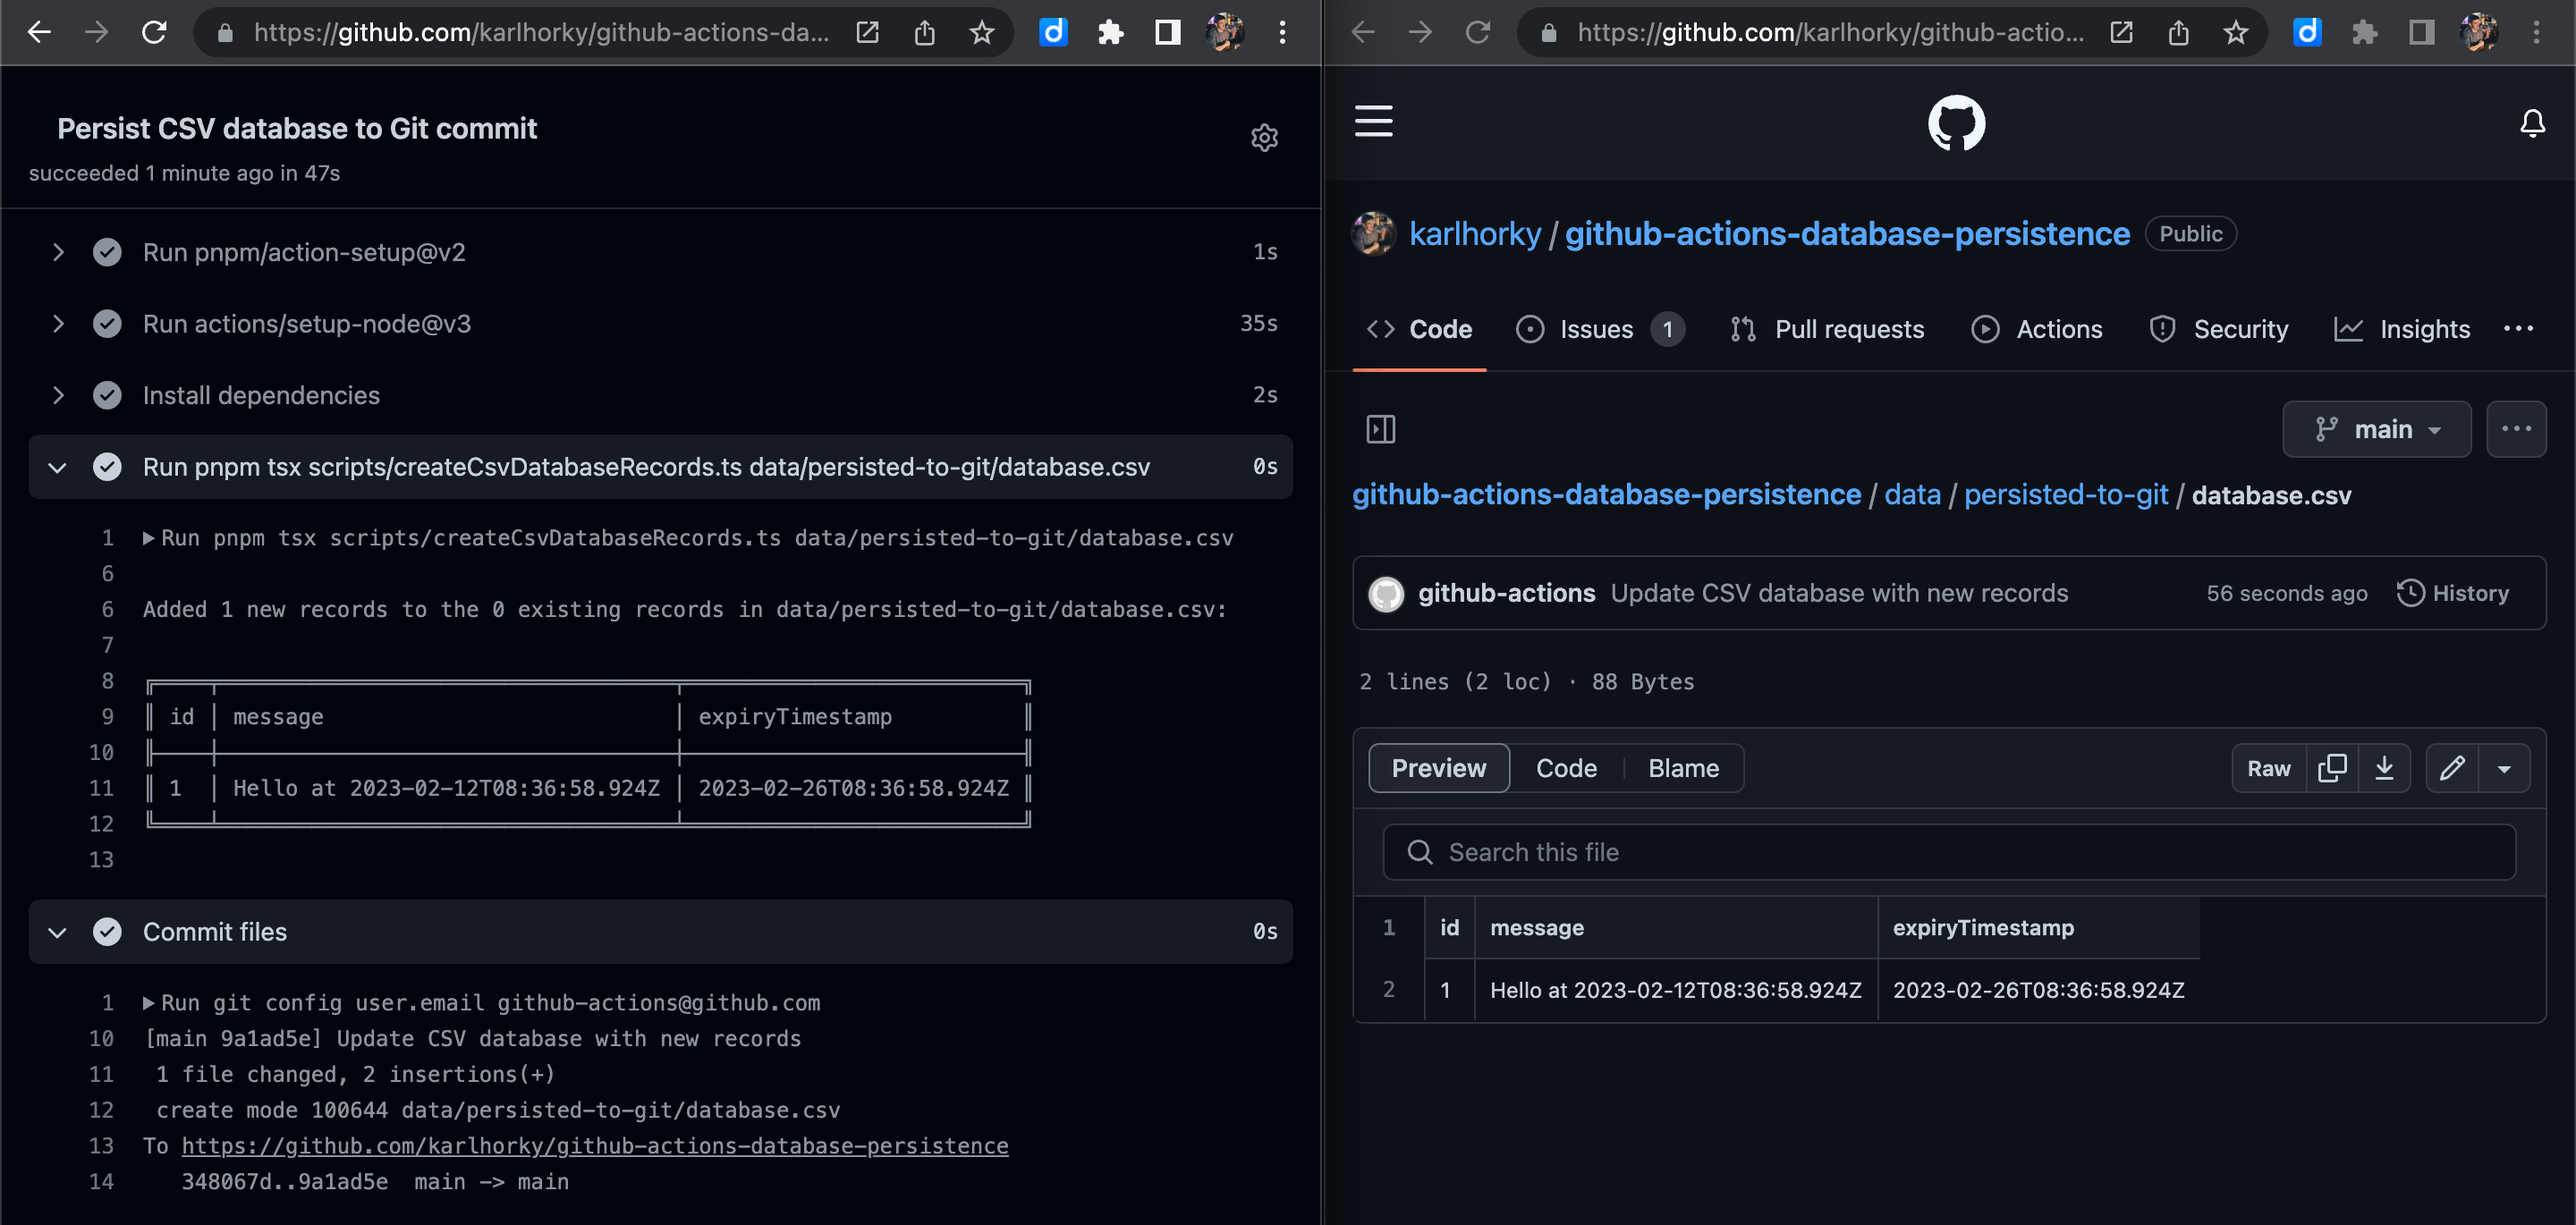
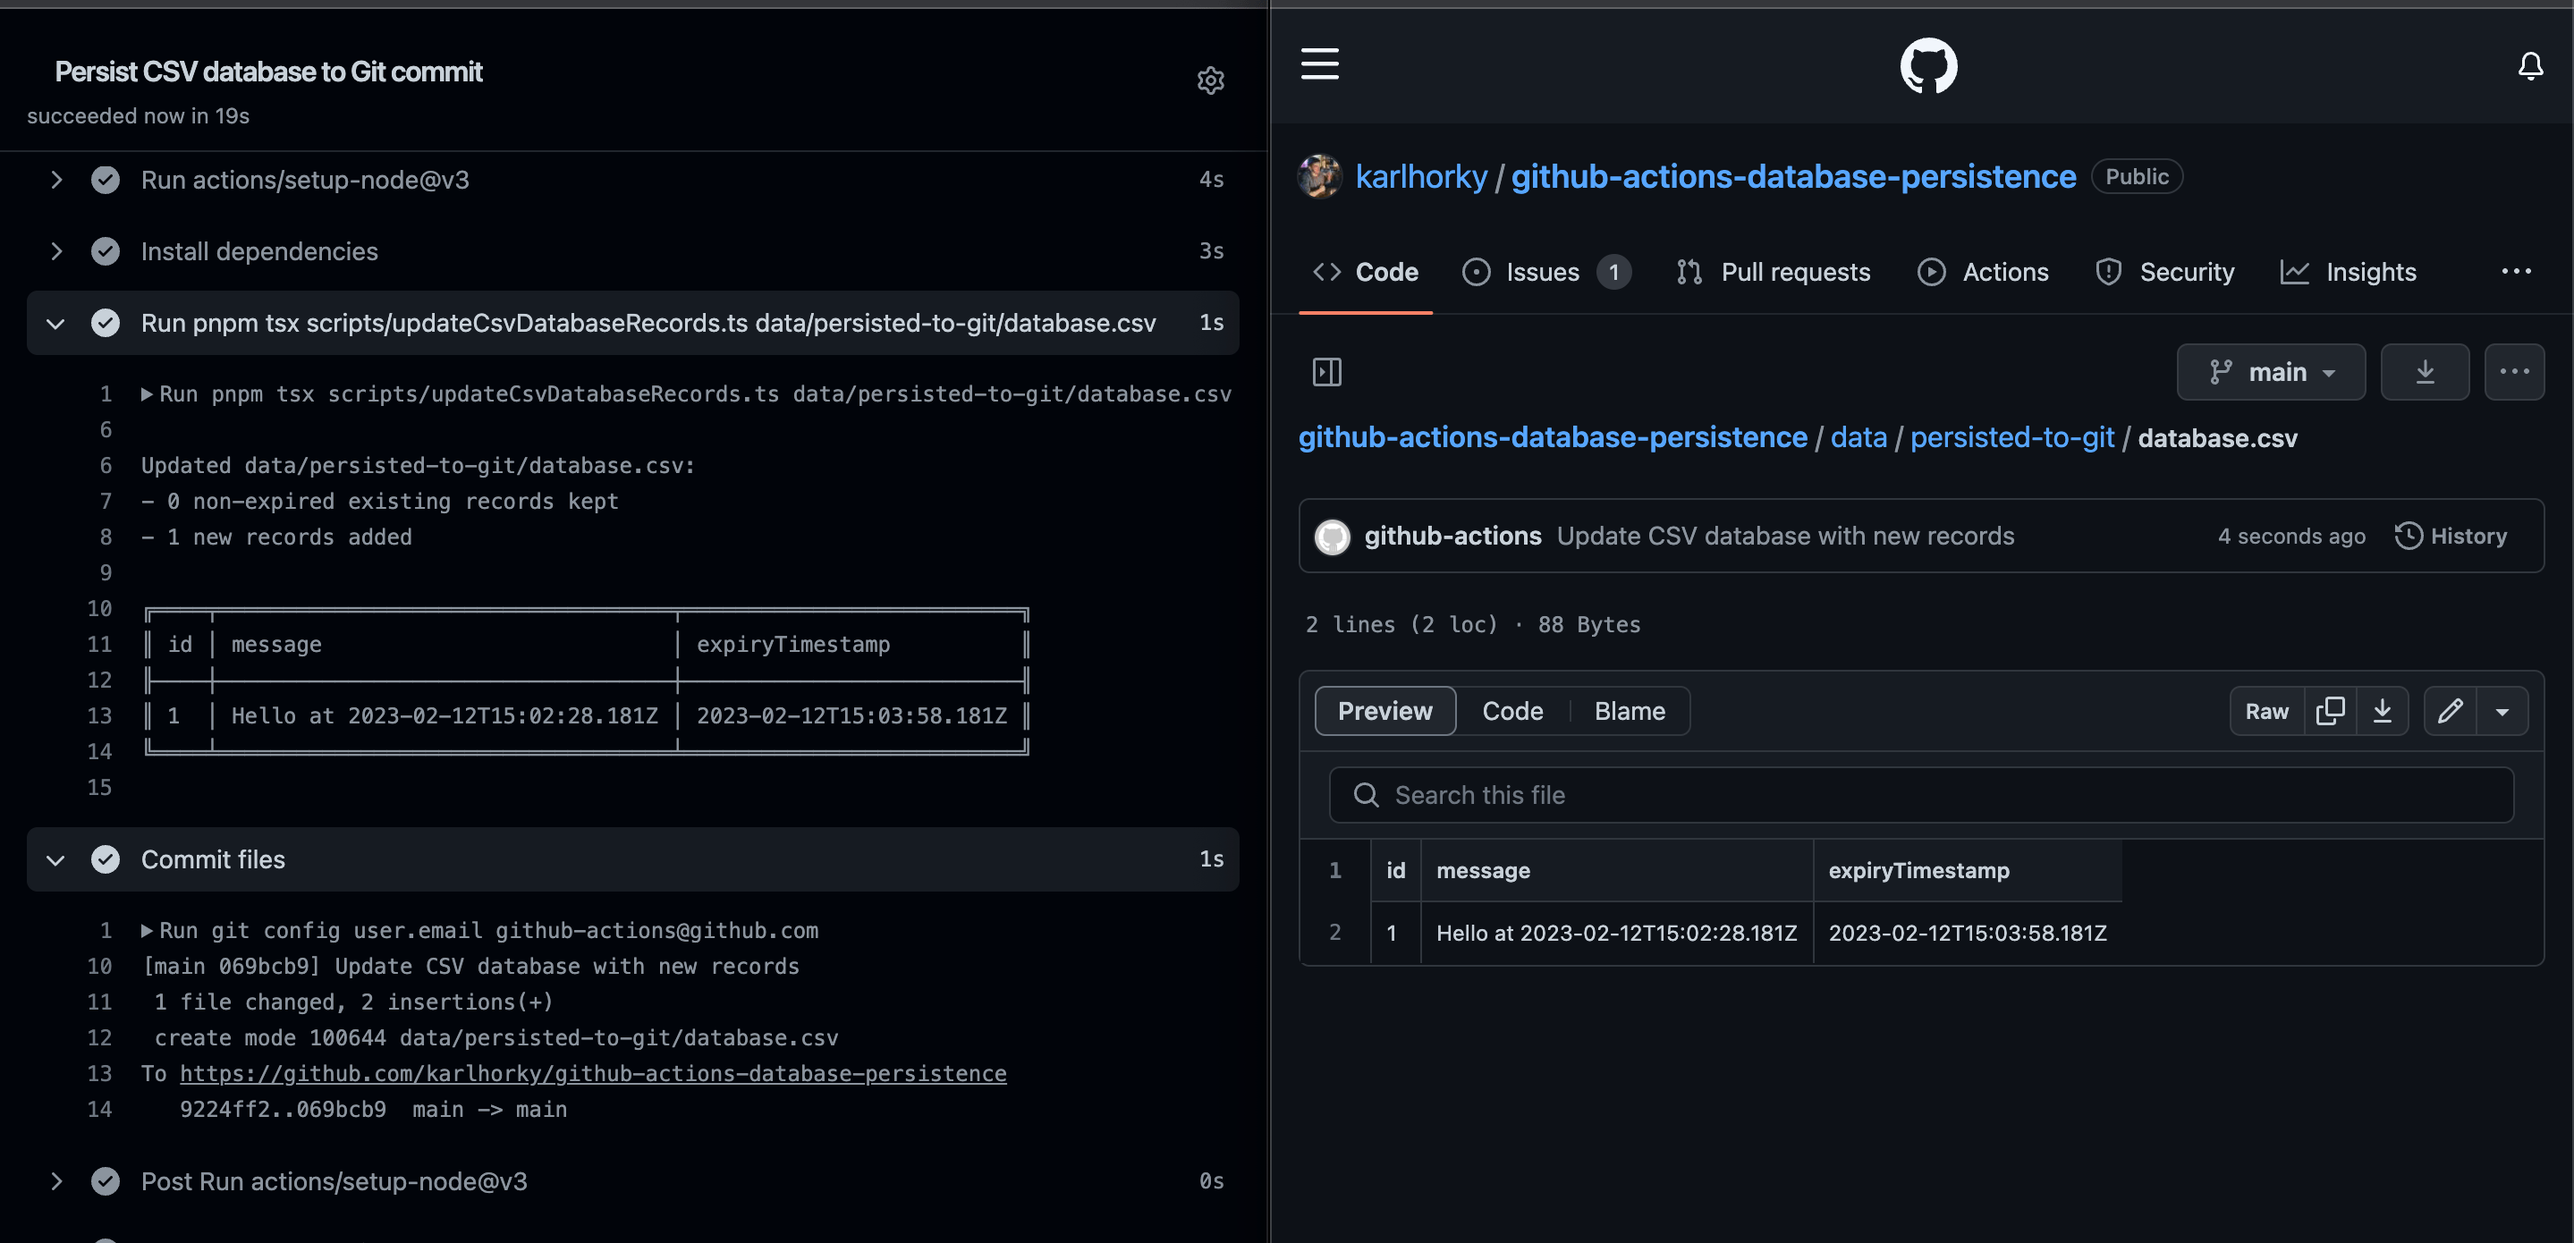
Update documentation

diff --git a/readme.md b/readme.md
@@ -35,21 +35,44 @@ Saves a CSV database to [GitHub Actions Cache](#persistence-to-github-actions-ca
 
 ### Example
 
-The first run, which adds a first message record to the CSV database file and saves the file to the GitHub Actions cache:
+Run 1:
+
+1. Does not find a cache
+2. Creates the CSV database file and adds a first message record
+3. Saves the file to the GitHub Actions cache
 
 <figure>
   <img src="persist-csv-database-to-cache-run-1.png" alt="" />
-  <figcaption><p align="center"><em>A screenshot of the GitHub Actions interface, showing a first run of the workflow, where the cache is not yet found. Running the script shows only the single new record in the CSV database.</em></p></figcaption>
+  <figcaption><p align="center"><em>A screenshot of run 1 in the GitHub Actions interface</em></p></figcaption>
 </figure>
 
 <br />
 <br />
 
-The second run, which restores the existing records from the CSV file in the cache, adds a second record and saves the file to the GitHub Actions cache:
+Run 2:
+
+1. Finds a cache with the CSV database file
+2. Adds a new record to the existing records
+3. Saves the file to the GitHub Actions cache
 
 <figure>
   <img src="persist-csv-database-to-cache-run-2.png" alt="" />
-  <figcaption><p align="center"><em>A screenshot of the GitHub Actions interface, showing a second run of the workflow, where the cache is now found and restored successfully. Running the script shows both the existing record from the first run and the new record which has been added.</em></p></figcaption>
+  <figcaption><p align="center"><em>A screenshot of run 2 in the GitHub Actions interface</em></p></figcaption>
+</figure>
+
+<br />
+<br />
+
+Run 3:
+
+1. Finds a cache with the CSV database file
+2. Removes expired records
+3. Adds a new record to the existing records
+4. Saves the file to the GitHub Actions cache
+
+<figure>
+  <img src="persist-csv-database-to-cache-run-3.png" alt="" />
+  <figcaption><p align="center"><em>A screenshot of run 3 in the GitHub Actions interface</em></p></figcaption>
 </figure>
 
 ### Persist CSV Database to Git commits on GitHub
@@ -61,21 +84,42 @@ Saves a CSV database to [Git commits on GitHub](#persistence-to-git-commits-on-g
 
 ### Example
 
-The first run, which adds a first message record to the CSV database file and saves the file to a new Git commit on GitHub:
+Run 1:
+
+1. Creates a CSV database file since no file exists
+2. Adds a new record
+3. Saves the file to a new Git commit on GitHub
 
 <figure>
   <img src="persist-csv-database-to-git-run-1.png" alt="" />
-  <figcaption><p align="center"><em>A screenshot of two browser windows, one window showing the GitHub Actions interface after the first run of the workflow and the other window showing the contents of the file after the commit from the first workflow run. The file contains the single new record added to the CSV database by the script.</em></p></figcaption>
+  <figcaption><p align="center"><em>A screenshot of run 1 in the GitHub Actions interface and the resulting committed file</em></p></figcaption>
 </figure>
 
 <br />
 <br />
 
-The second run, which adds a second record to the CSV file and saves the file to a new Git commit on GitHub:
+Run 2:
+
+1. Adds a new record to the existing records
+2. Saves the file to a new Git commit on GitHub
 
 <figure>
   <img src="persist-csv-database-to-git-run-2.png" alt="" />
-  <figcaption><p align="center"><em>A screenshot of two browser windows, one window showing the GitHub Actions interface after the second run of the workflow and the other window showing the contents of the file after the commit from the second workflow run. The file now contains two records, with the new record added to the CSV database by the script.</em></p></figcaption>
+  <figcaption><p align="center"><em>A screenshot of run 2 in the GitHub Actions interface and the resulting committed file</em></p></figcaption>
+</figure>
+
+<br />
+<br />
+
+Run 3:
+
+1. Removes expired records
+2. Adds a new record to the existing records
+3. Saves the file to a new Git commit on GitHub
+
+<figure>
+  <img src="persist-csv-database-to-git-run-3.png" alt="" />
+  <figcaption><p align="center"><em>A screenshot of run 3 in the GitHub Actions interface and the resulting committed file</em></p></figcaption>
 </figure>
 
 ### Persist SQLite Database to GitHub Actions Cache
